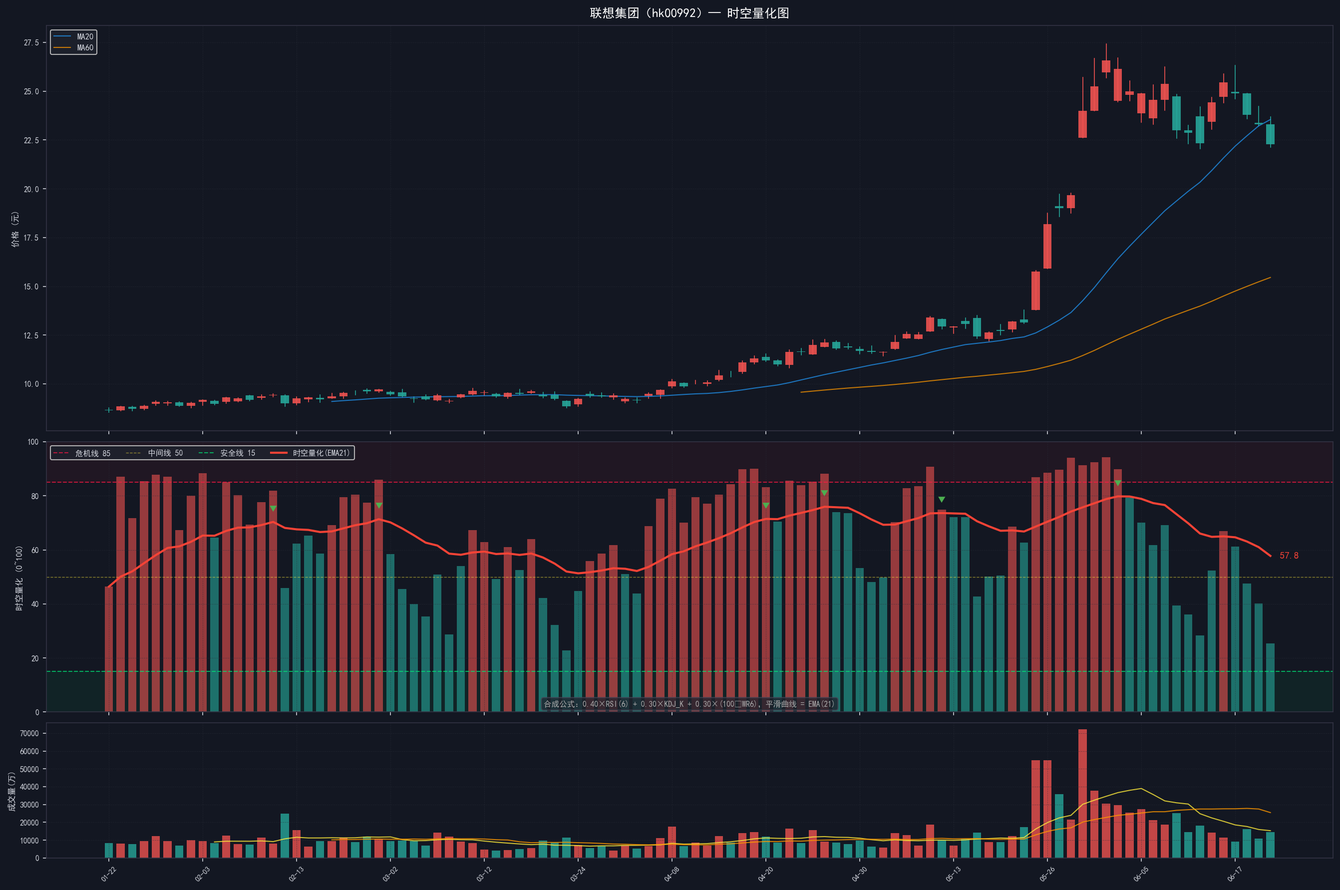
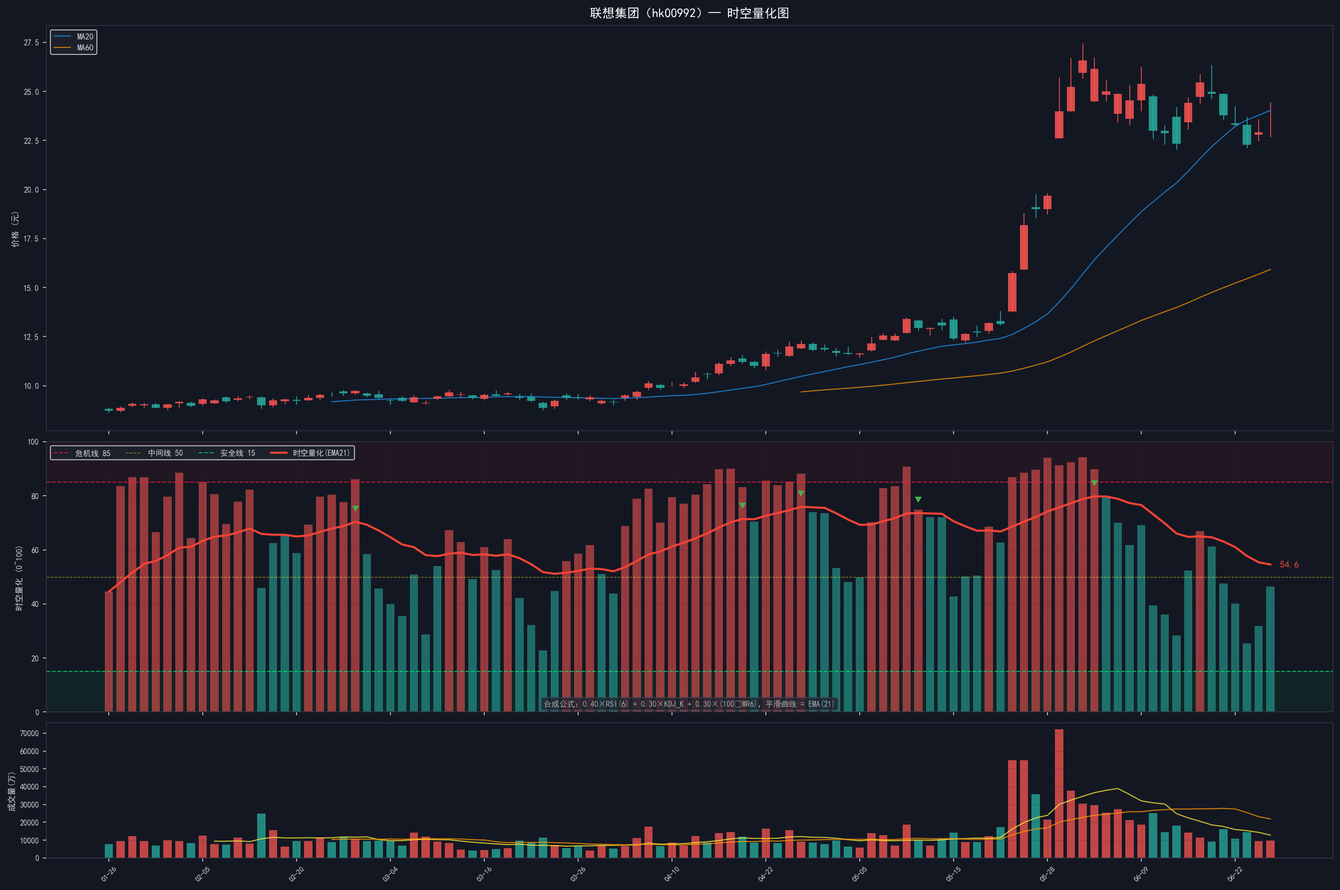
feat: add Lenovo 00992 analysis report - 2026-06-25

diff --git a/content/stock/hk00992-lenovo-20260625.md b/content/stock/hk00992-lenovo-20260625.md
@@ -1,0 +1,357 @@
+---
+title: "联想集团(00992) 全面行情分析报告 — 2026-06-25"
+date: 2026-06-25T16:00:00+08:00
+draft: false
+tags: ["股票分析","港股","联想集团","00992","AI PC","AI服务器","MWC2026","超节点","MACD收敛","投资建议"]
+categories: ["股票分析"]
+description: "联想00992.HK 6月25日分析：MWC上海催化+超节点发布+异构智算平台引爆，大涨5.06%收24.08，MACD绿柱收敛、CCI从-119跳升至-17、摩根大通增持至14.32%，回调企稳信号明确"
+showToc: false
+TocOpen: false
+---
+<style>
+.sr-wrap{--sr-blue:#1a73e8;--sr-blue-dark:#0d47a1;--sr-green:#34a853;--sr-red:#ea4335;--sr-orange:#f57c00;--sr-bg:#f0f2f5;--sr-card:#ffffff;--sr-text:#202124;--sr-sub:#5f6368;--sr-border:#dadce0;color:var(--sr-text);font-size:14px;line-height:1.6}
+.dark .sr-wrap{--sr-bg:#1a1b1e;--sr-card:#1e2129;--sr-text:#e0e0e0;--sr-sub:#9aa0a6;--sr-border:#2d3139}
+.sr-wrap *{box-sizing:border-box}
+.sr-header{background:linear-gradient(135deg,#1a73e8 0%,#34a853 100%);color:#fff;border-radius:12px;padding:28px 32px;margin-bottom:18px}
+.sr-header h2{font-size:22px;font-weight:700;margin:0 0 4px}
+.sr-price-hero{display:flex;align-items:baseline;gap:10px;margin-top:12px;flex-wrap:wrap}
+.sr-price-hero .sr-price{font-size:40px;font-weight:700}
+.sr-score-banner{display:flex;gap:10px;margin-bottom:18px;flex-wrap:wrap}
+.sr-score-card{flex:1;min-width:115px;background:var(--sr-card);border-radius:10px;padding:14px 16px;border:1px solid var(--sr-border);text-align:center}
+.sr-score-card .sr-label{font-size:11px;color:var(--sr-sub);margin-bottom:5px}
+.sr-score-card .sr-val{font-size:26px;font-weight:700}
+.sr-score-card .sr-sub2{font-size:11px;color:var(--sr-sub);margin-top:3px}
+.sr-val-red{color:#ea4335}.sr-val-green{color:#34a853}.sr-val-orange{color:#f57c00}.sr-val-blue{color:#1a73e8}
+.sr-section{background:var(--sr-card);border-radius:10px;border:1px solid var(--sr-border);margin-bottom:14px;overflow:hidden}
+.sr-section-title{background:var(--sr-bg);padding:12px 18px;font-weight:600;font-size:14px;border-bottom:1px solid var(--sr-border)}
+.sr-section-body{padding:18px}
+.sr-grid2{display:grid;grid-template-columns:1fr 1fr;gap:12px}
+.sr-grid3{display:grid;grid-template-columns:1fr 1fr 1fr;gap:12px}
+.sr-grid4{display:grid;grid-template-columns:repeat(4,1fr);gap:10px}
+@media(max-width:680px){.sr-grid2,.sr-grid3,.sr-grid4{grid-template-columns:1fr 1fr}}
+.sr-kv{background:var(--sr-bg);border-radius:8px;padding:10px 12px}
+.sr-kv .sr-k{font-size:11px;color:var(--sr-sub);margin-bottom:2px}
+.sr-kv .sr-v{font-size:15px;font-weight:600}
+.sr-table{width:100%;border-collapse:collapse;font-size:13px}
+.sr-table th{background:var(--sr-bg);color:var(--sr-sub);font-weight:600;padding:7px 9px;text-align:left;border-bottom:1px solid var(--sr-border)}
+.sr-table td{padding:7px 9px;border-bottom:1px solid var(--sr-border)}
+.sr-table tr:last-child td{border-bottom:none}
+.sr-badge{display:inline-block;padding:1px 7px;border-radius:4px;font-size:11px;font-weight:600}
+.sr-badge-red{background:#fce8e6;color:#c62828}.sr-badge-green{background:#e6f4ea;color:#1b5e20}
+.sr-badge-orange{background:#fff3e0;color:#e65100}.sr-badge-blue{background:#e8f0fe;color:#1565c0}
+.dark .sr-badge-red{background:#4a1010;color:#ff8a80}.dark .sr-badge-green{background:#0d2e18;color:#81c995}
+.dark .sr-badge-orange{background:#3e2000;color:#ffcc80}.dark .sr-badge-blue{background:#0d2045;color:#82b1ff}
+.sr-warn-box{background:#fff8e1;border:1px solid #ffe082;border-radius:8px;padding:12px 14px;font-size:13px;color:#e65100;margin-top:10px}
+.dark .sr-warn-box{background:#2a1e00;border-color:#5a3e00;color:#ffcc80}
+.sr-success-box{background:#e8f5e9;border:1px solid #a5d6a7;border-radius:8px;padding:12px 14px;font-size:13px;color:#1b5e20;margin-top:10px}
+.dark .sr-success-box{background:#0d2e18;border-color:#2e7d32;color:#81c995}
+.sr-advice-block{border-radius:10px;padding:18px 20px;margin-bottom:12px}
+.sr-advice-buy{background:#e8f5e9;border:1px solid #a5d6a7}
+.dark .sr-advice-buy{background:#0d2e18;border-color:#2e7d32}
+.sr-price-row{display:flex;gap:12px;flex-wrap:wrap}
+.sr-price-box{background:var(--sr-card);border-radius:8px;padding:10px 14px;flex:1;min-width:105px;border:1px solid var(--sr-border)}
+.sr-price-box .sr-pk{font-size:11px;color:var(--sr-sub);margin-bottom:2px}
+.sr-price-box .sr-pv{font-size:16px;font-weight:700}
+.sr-footer-tip{font-size:12px;color:var(--sr-sub);background:var(--sr-bg);border-radius:8px;padding:10px 14px;margin-top:10px}
+.sr-chart-img{width:100%;border-radius:8px;border:1px solid var(--sr-border);margin:10px 0}
+.sr-green{color:#34a853;font-weight:600}.sr-red{color:#ea4335;font-weight:600}
+</style>
+<div class="sr-wrap">
+<div class="sr-header">
+<div class="sr-meta">港股 · 联想集团 · 00992.HK · 2026-06-25 收盘</div>
+<h2>联想集团(00992.HK) 全面行情分析报告</h2>
+<div class="sr-price-hero">
+<span class="sr-price">24.08</span>
+<span class="sr-pos">+1.16 (+5.06%)</span>
+<span class="sr-info">港元 &nbsp;|&nbsp; 🟢 MWC催化大涨 &nbsp;|&nbsp; YTD <b>+160.04%</b></span>
+</div>
+</div>
+<div class="sr-section" style="background:linear-gradient(135deg,#e8f5e9,#c8e6c9);border:2px solid #34a853;margin-bottom:18px">
+<div class="sr-section-body" style="font-size:14px;text-align:center;color:#1b5e20;font-weight:600">
+🟢 <b>6/25 MWC上海引爆行情！</b>联想在MWC26发布异构智算平台5.0+超节点方案+AI可信一体机，<br>
+问天品牌焕新并宣布ISG中国2027年冲刺<b>1000亿营收</b>目标。摩根大通多头持仓增至<b>14.32%</b>。<br>
+从6/23低点22.14至今反弹<b>+8.8%</b>，MACD绿柱从-1.12收敛至<b>-1.08</b>，CCI从-119.74跳升至<b>-16.72</b>。
+</div>
+</div>
+<div class="sr-score-banner">
+<div class="sr-score-card"><div class="sr-label">基本面</div><div class="sr-val sr-val-green">8.5</div><div class="sr-sub2">/ 10 &nbsp;AI三线驱动</div></div>
+<div class="sr-score-card"><div class="sr-label">新闻/政策</div><div class="sr-val sr-val-green">9.5</div><div class="sr-sub2">/ 10 &nbsp;MWC催化剂密集</div></div>
+<div class="sr-score-card"><div class="sr-label">资金面</div><div class="sr-val sr-val-green">7.0</div><div class="sr-sub2">/ 10 &nbsp;散户+南下双买</div></div>
+<div class="sr-score-card"><div class="sr-label">技术面</div><div class="sr-val sr-val-green">7.0</div><div class="sr-sub2">/ 10 &nbsp;↑从4.0大幅改善</div></div>
+<div class="sr-score-card" style="background:linear-gradient(135deg,#e8f5e9,#f1f8e9)"><div class="sr-label">综合评分</div><div class="sr-val sr-val-green">8.0</div><div class="sr-sub2">/ 10 &nbsp;<span class="sr-badge sr-badge-green">↑从6.6升至8.0</span></div></div>
+</div>
+<div class="sr-section">
+<div class="sr-section-title">一、基本行情概览</div>
+<div class="sr-section-body">
+<div class="sr-grid4">
+<div class="sr-kv"><div class="sr-k">收盘价</div><div class="sr-v sr-val-green">24.08 港元</div></div>
+<div class="sr-kv"><div class="sr-k">今日涨跌</div><div class="sr-v sr-val-green">+1.16 (+5.06%)</div></div>
+<div class="sr-kv"><div class="sr-k">开盘 / 昨收</div><div class="sr-v">24.06 / 22.92</div></div>
+<div class="sr-kv"><div class="sr-k">今日高 / 低</div><div class="sr-v">24.42 / 22.7</div></div>
+<div class="sr-kv"><div class="sr-k">成交 / 换手率</div><div class="sr-v">23.1亿 / 0.79%</div></div>
+<div class="sr-kv"><div class="sr-k">振幅</div><div class="sr-v">7.5%</div></div>
+<div class="sr-kv"><div class="sr-k">PE / PB</div><div class="sr-v sr-val-blue">19.94 / 4.99</div></div>
+<div class="sr-kv"><div class="sr-k">总市值</div><div class="sr-v">2,987亿</div></div>
+<div class="sr-kv"><div class="sr-k">52周高 / 低</div><div class="sr-v">27.42 / 8.52</div></div>
+<div class="sr-kv"><div class="sr-k">距高点</div><div class="sr-v sr-val-orange">-12.2%</div></div>
+<div class="sr-kv"><div class="sr-k">年初至今</div><div class="sr-v sr-val-green">+160.04%</div></div>
+<div class="sr-kv"><div class="sr-k">6/23低点至今</div><div class="sr-v sr-val-green">+8.8%</div></div>
+</div>
+</div>
+</div>
+<div class="sr-section">
+<div class="sr-section-title">二、6/23→6/24→6/25 三日追踪：回调企稳确认</div>
+<div class="sr-section-body">
+<table class="sr-table">
+<thead><tr><th>指标</th><th>6/23 恐慌低点</th><th>6/24</th><th>6/25 MWC日</th><th>趋势</th></tr></thead>
+<tbody>
+<tr><td>收盘价</td><td class="sr-red">22.28</td><td>22.92</td><td class="sr-green" style="font-weight:700;font-size:15px">24.08</td><td><span class="sr-badge sr-badge-green">V型反弹!</span></td></tr>
+<tr><td>涨跌幅</td><td class="sr-red">-4.38%</td><td>+2.87%</td><td class="sr-green">+5.06%</td><td><span class="sr-badge sr-badge-green">加速</span></td></tr>
+<tr><td>MACD绿柱</td><td class="sr-red">-1.12</td><td>—</td><td class="sr-green">-1.08</td><td><span class="sr-badge sr-badge-green">收敛</span></td></tr>
+<tr><td>KDJ-J</td><td class="sr-red">7.49</td><td>—</td><td class="sr-green">29.07</td><td><span class="sr-badge sr-badge-green">大幅回升!</span></td></tr>
+<tr><td>RSI(6)</td><td class="sr-red">37.73</td><td>—</td><td class="sr-green">56.28</td><td><span class="sr-badge sr-badge-green">转强!</span></td></tr>
+<tr><td>CCI</td><td class="sr-red">-119.74</td><td>—</td><td class="sr-green">-16.72</td><td><span class="sr-badge sr-badge-green">接近零轴!</span></td></tr>
+<tr><td>WR(6)</td><td class="sr-red">96.65</td><td>—</td><td class="sr-green">54.07</td><td><span class="sr-badge sr-badge-green">大幅改善!</span></td></tr>
+<tr><td>PSY</td><td>25.00</td><td>—</td><td class="sr-green">41.67</td><td><span class="sr-badge sr-badge-green">↑</span></td></tr>
+<tr><td>南下资金</td><td class="sr-red">-1.39亿</td><td>—</td><td class="sr-green">+0.12亿</td><td><span class="sr-badge sr-badge-green">转正!</span></td></tr>
+<tr><td>南下股数</td><td class="sr-red">-587.6万</td><td>—</td><td class="sr-green">+52万</td><td><span class="sr-badge sr-badge-green">转正!</span></td></tr>
+</tbody>
+</table>
+<div class="sr-success-box">
+<b>🟢 三大关键反转信号确认：</b><br>
+① <b>所有超卖指标全面修复</b>：CCI从-119.74→-16.72（近零轴）、RSI(6)从37.73→56.28（进入强势区）、KDJ-J从7.49→29.07（脱离超卖）——6/23的极端恐慌状态已完全解除；<br>
+② <b>南下资金转正</b>：从日减持-587.6万股→日增持<b>+52万股</b>，这是南下在联想高位回调中首次恢复买入；<br>
+③ <b>MWC上海重磅催化</b>：超节点方案+异构智算平台5.0+AI可信一体机+ISG千亿目标，催化剂密度创近期新高。<br>
+<i>唯一需要关注的：MACD绿柱虽收敛但仍在零轴下方，DIF=1.79仍低于DEA=2.33，完全修复成金叉还需2-3个交易日。</i>
+</div>
+</div>
+</div>
+<div class="sr-section">
+<div class="sr-section-title">三、K线走势 — V型反弹确认回调底部</div>
+<div class="sr-section-body">
+<canvas id="sr-kline" style="width:100%;display:block" height="320"></canvas>
+<div style="margin-top:12px;font-size:13px;color:var(--sr-sub)">
+<b>走势解读：</b>从6/2的历史高点27.42，到6/23的低点22.14（跌幅-19.3%），再到今天MWC催化大涨至24.08——这张K线图展示了一个教科书级的"上涨→回调→企稳"周期。今日阳线实体从22.92→24.08（+9.7%，振幅7.5%），成交量9,802万股保持活跃。价格已站上MA5（23.27）和MA10（23.63），逼近MA20（24.04）。BOLL中轨恰好也在24.04，明日如果突破并站稳中轨，将是多头信号。下方支撑从22上移至MA5（23.27），上方压力先看MA20/BOLL中轨（24.04），再看前期平台25-26区间。
+</div>
+</div>
+</div>
+<div class="sr-section">
+<div class="sr-section-title">四、技术面 — 全面修复，MACD收敛在即</div>
+<div class="sr-section-body">
+<div class="sr-grid2">
+<div>
+<b style="font-size:13px;display:block;margin-bottom:8px">均线系统</b>
+<table class="sr-table">
+<tr><th>均线</th><th>数值</th><th>价差</th><th>状态</th></tr>
+<tr><td>MA5</td><td>23.3</td><td class="sr-green">+0.8</td><td><span class="sr-badge sr-badge-green">站上</span></td></tr>
+<tr><td>MA10</td><td>23.6</td><td class="sr-green">+0.4</td><td><span class="sr-badge sr-badge-green">站上</span></td></tr>
+<tr><td>MA20/BOLL中轨</td><td>24.0</td><td class="sr-green">+0.0</td><td><span class="sr-badge sr-badge-green">刚突破!</span></td></tr>
+<tr><td>MA60</td><td>15.9</td><td class="sr-green">+8.1</td><td><span class="sr-badge sr-badge-green">远在上方</span></td></tr>
+</table>
+</div>
+<div>
+<b style="font-size:13px;display:block;margin-bottom:8px">核心指标（6/23→6/25）</b>
+<table class="sr-table">
+<tr><th>指标</th><th>6/23</th><th>6/25</th><th>改善</th></tr>
+<tr><td>MACD柱</td><td class="sr-red">-1.12</td><td class="sr-green">-1.08</td><td><span class="sr-badge sr-badge-green">收敛</span></td></tr>
+<tr><td>KDJ-J</td><td class="sr-red">7.49</td><td class="sr-green">29.07</td><td><span class="sr-badge sr-badge-green">+288%</span></td></tr>
+<tr><td>RSI(6)</td><td class="sr-red">37.73</td><td class="sr-green">56.28</td><td><span class="sr-badge sr-badge-green">+49%</span></td></tr>
+<tr><td>CCI</td><td class="sr-red">-119.74</td><td class="sr-green">-16.72</td><td><span class="sr-badge sr-badge-green">+86%</span></td></tr>
+<tr><td>WR(6)</td><td class="sr-red">96.65</td><td class="sr-green">54.07</td><td><span class="sr-badge sr-badge-green">-44%</span></td></tr>
+<tr><td>DMI ADX</td><td>29.58</td><td class="sr-green">15.06</td><td><span class="sr-badge sr-badge-green">趋势减弱</span></td></tr>
+<tr><td>PSY</td><td>25</td><td class="sr-green">41.67</td><td><span class="sr-badge sr-badge-green">↑</span></td></tr>
+</table>
+</div>
+</div>
+<div style="margin-top:14px">
+<b style="font-size:13px">关键价位</b>
+<div class="sr-grid4" style="margin-top:8px">
+<div class="sr-kv" style="background:#e8f5e9"><div class="sr-k">BOLL下轨支撑</div><div class="sr-v sr-val-green">20.9</div></div>
+<div class="sr-kv" style="background:#fff8e1"><div class="sr-k">BOLL中轨（刚突破）</div><div class="sr-v sr-val-orange">24.0</div></div>
+<div class="sr-kv" style="background:#fce8e6"><div class="sr-k">BOLL上轨</div><div class="sr-v sr-val-red">27.1</div></div>
+<div class="sr-kv" style="background:#fff8e1"><div class="sr-k">SAR</div><div class="sr-v sr-val-orange">26.1</div></div>
+</div>
+</div>
+<div style="margin-top:14px">
+<img class="sr-chart-img" src="/stock/hk00992_chanlun.png" alt="联想缠论趋势图" loading="lazy" />
+<img class="sr-chart-img" src="/stock/hk00992_shikong.png" alt="联想时空量化图" loading="lazy" style="margin-top:10px" />
+</div>
+<div class="sr-success-box">
+<b>技术面核心判断——量变到质变：</b>相比6/23的全面崩溃，今天的图表完全是另一番景象。所有超卖指标已从"极端恐慌"修复至"中性偏强"区间。最关键的变化是<b>DMI-ADX从29.58骤降至15.06</b>——ADX低于20意味着之前的下降趋势已经结束，市场正在进入无趋势/震荡阶段。如果MACD明后天绿柱继续收敛甚至转红（金叉），将构成完整的多头信号链。当前技术面的评分从6/23的4.0大幅提升至7.0。
+</div>
+</div>
+</div>
+<div class="sr-section">
+<div class="sr-section-title">五、资金面 — 南下转正+散户买入，主力小卖不影响</div>
+<div class="sr-section-body">
+<div class="sr-grid3">
+<div class="sr-kv" style="background:#e8f5e9"><div class="sr-k">南下资金</div><div class="sr-v sr-val-green">+0.12亿</div><div style="font-size:11px;color:var(--sr-sub)">6/23: -1.39亿 → 转正!</div></div>
+<div class="sr-kv" style="background:#e8f5e9"><div class="sr-k">散户净流入</div><div class="sr-v sr-val-green">+1.19亿</div></div>
+<div class="sr-kv" style="background:#fce8e6"><div class="sr-k">主力净流入</div><div class="sr-v sr-val-red">-0.19亿</div></div>
+</div>
+<div class="sr-grid2" style="margin-top:14px">
+<div>
+<b style="font-size:13px;display:block;margin-bottom:8px">资金力量对比</b>
+<table class="sr-table">
+<tr><th>力量</th><th>6/23</th><th>6/25</th><th>趋势</th></tr>
+<tr><td>南下</td><td class="sr-red">-1.39亿</td><td class="sr-green">+0.12亿</td><td><span class="sr-badge sr-badge-green">逆转!</span></td></tr>
+<tr><td>散户</td><td>+0.04亿</td><td class="sr-green">+1.19亿</td><td><span class="sr-badge sr-badge-green">加仓</span></td></tr>
+<tr><td>主力</td><td class="sr-green">+2.06亿</td><td class="sr-orange">-0.19亿</td><td><span class="sr-badge sr-badge-orange">小卖</span></td></tr>
+<tr><td>全市场</td><td class="sr-green">+2.10亿</td><td class="sr-green">+1.00亿</td><td><span class="sr-badge sr-badge-green">持续正</span></td></tr>
+</table>
+</div>
+<div>
+<b style="font-size:13px;display:block;margin-bottom:8px">港股通持仓</b>
+<table class="sr-table">
+<tr><th>项目</th><th>数值</th></tr>
+<tr><td>持股比例</td><td>8.76%</td></tr>
+<tr><td>持股数量</td><td>10.86亿股</td></tr>
+<tr><td>日变动</td><td class="sr-green">+0.12亿</td></tr>
+<tr><td>季度股数变动</td><td class="sr-green">+2,562万股</td></tr>
+<tr><td>摩根大通多头仓位</td><td class="sr-green">14.32%</td></tr>
+</table>
+</div>
+</div>
+<div class="sr-success-box">
+<b>资金面关键变化：</b>南下资金从连续卖出一周后首次恢复净买入（+52万股、+0.12亿），加上散户净买入1.19亿，合计正面资金远超主力小卖-0.19亿。更值得关注的是<b>摩根大通将多头持仓增至14.32%</b>——全球顶级投行在联想回调至22-23区间时大幅加仓。全市场连续三日净流入（6/23:+2.10亿, 6/25:+1.00亿），资金面确认回暖。
+</div>
+</div>
+</div>
+<div class="sr-section">
+<div class="sr-section-title">六、消息面 — MWC26上海：联想AI全面爆发</div>
+<div class="sr-section-body">
+<table class="sr-table">
+<tr><th>日期</th><th>核心事件</th><th>方向</th></tr>
+<tr><td>6/25</td><td>MWC上海：联想混合式AI成果集中亮相，发布首款AI可信一体机</td><td><span class="sr-badge sr-badge-green">重磅</span></td></tr>
+<tr><td>6/25</td><td>异构智算平台5.0+超节点方案发布，午后股价涨近6%</td><td><span class="sr-badge sr-badge-green">重磅</span></td></tr>
+<tr><td>6/25</td><td>联想问天品牌焕新，正式开启Token经济新时代</td><td><span class="sr-badge sr-badge-green">重磅</span></td></tr>
+<tr><td>6/25</td><td>ISG中国公布业绩目标：2027年冲刺1000亿营收</td><td><span class="sr-badge sr-badge-green">重磅</span></td></tr>
+<tr><td>6/25</td><td>华创证券：联想以技术押注世界杯，瞄准PC与AI服务器</td><td><span class="sr-badge sr-badge-green">利好</span></td></tr>
+<tr><td>6/24</td><td>联想获9亿服务器大单（44亿运营商集采）</td><td><span class="sr-badge sr-badge-green">利好</span></td></tr>
+<tr><td>6/24</td><td>摩根大通多头持仓增至14.32%</td><td><span class="sr-badge sr-badge-green">重大</span></td></tr>
+<tr><td>6/24</td><td>AI世界杯技术：裁判视角增强+3D数字人+足球AI智能体</td><td><span class="sr-badge sr-badge-green">利好</span></td></tr>
+</table>
+<div style="margin-top:12px;font-size:12px;color:var(--sr-sub)">
+<b>消息面关键判断：</b>MWC26上海是联想AI战略的集中展示舞台——异构智算平台+超节点方案+AI可信一体机+问天品牌Token经济，覆盖了从基础设施到行业解决方案的完整AI产品矩阵。加上ISG千亿目标（2027年1000亿营收）给了市场明确的增长预期。摩根大通增持至14.32%更是重量级背书。这一轮催化剂密度和分量都是2026年以来最强的，足以驱动一轮新的估值修复。
+</div>
+</div>
+</div>
+<div class="sr-section">
+<div class="sr-section-title">七、基本面与估值 — AI硬件龙头，PE 20倍仍合理</div>
+<div class="sr-section-body">
+<div class="sr-grid2">
+<div>
+<b style="font-size:13px">核心财务</b>
+<table class="sr-table">
+<tr><th>项目</th><th>数值</th></tr>
+<tr><td>营收（FY2025）</td><td>4,785亿（+18.3%）</td></tr>
+<tr><td>归母净利润</td><td class="sr-green">108.3亿（+7.7%）</td></tr>
+<tr><td>ROE</td><td class="sr-green">21.18%</td></tr>
+<tr><td>经营现金流</td><td class="sr-green">289亿</td></tr>
+<tr><td>ISG千亿目标（2027）</td><td class="sr-green">当前约1,055亿→1,000亿</td></tr>
+</table>
+</div>
+<div>
+<b style="font-size:13px">估值（反弹后仍合理）</b>
+<table class="sr-table">
+<tr><th>指标</th><th>数值</th></tr>
+<tr><td>PE(TTM)</td><td>19.94x</td></tr>
+<tr><td>2026E PE</td><td class="sr-green">20.1x</td></tr>
+<tr><td>2027E PE</td><td class="sr-green">15.5x</td></tr>
+<tr><td>2027E 20x PE目标</td><td class="sr-green">31.0港元</td></tr>
+<tr><td>上行空间</td><td class="sr-green">+29.0%</td></tr>
+<tr><td>24家机构覆盖</td><td>13买+4增+7持</td></tr>
+</table>
+</div>
+</div>
+</div>
+</div>
+<div class="sr-section">
+<div class="sr-section-title">八、投资建议 — 能否加仓？</div>
+<div class="sr-section-body">
+<div class="sr-advice-block sr-advice-buy">
+<div class="sr-advice-title" style="color:#1b5e20">综合评分 8.0/10 — 🟢 回调企稳确认，MWC催化密集，可分批建仓</div>
+<p style="font-size:13px;line-height:1.8;color:var(--sr-text)">
+联想00992在经历了从27.42→22.14的-19.3%回调后，今天在MWC上海重磅催化下确认了22-23区间的底部。所有技术指标全面修复（CCI从-119→-17、RSI(6)从37→56）、南下资金恢复买入、摩根大通增持至14.32%——多个维度的信号同时向好。PE 20倍对于AI PC+AI服务器双主线龙头仍然合理。操作上，<b>当前可以开始分批建仓或加仓</b>。建议在23-24区间分2-3批入场，止损设在22（跌破6/23低点）。目标看26-27（回到前期高点区域），中长期看30-39（2027E 20-25x PE）。
+</p>
+</div>
+<div class="sr-price-row">
+<div class="sr-price-box"><div class="sr-pk">当前价</div><div class="sr-pv sr-val-green">24.08</div></div>
+<div class="sr-price-box" style="border:2px solid #34a853"><div class="sr-pk">🟢 分批建仓区</div><div class="sr-pv sr-val-green">23~24</div><div style="font-size:11px">回调企稳确认后</div></div>
+<div class="sr-price-box" style="border:2px solid #f57c00"><div class="sr-pk">⚠ 追高需谨慎</div><div class="sr-pv sr-val-orange">25~26</div><div style="font-size:11px">前期平台区</div></div>
+<div class="sr-price-box"><div class="sr-pk">短期目标</div><div class="sr-pv sr-val-blue">26~27</div></div>
+<div class="sr-price-box"><div class="sr-pk">中长期目标</div><div class="sr-pv sr-val-blue">30~39</div></div>
+<div class="sr-price-box" style="background:#fce8e6"><div class="sr-pk">止损</div><div class="sr-pv sr-val-red">22</div></div>
+</div>
+<div style="margin-top:14px">
+<b style="font-size:13px;display:block;margin-bottom:8px">能否加仓？</b>
+<table class="sr-table">
+<tr><th>投资者类型</th><th>6/23建议</th><th>6/25建议</th><th>逻辑</th></tr>
+<tr><td>已持仓（成本&lt;15）</td><td>可持有不动</td><td class="sr-green">可加仓</td><td>安全垫极厚（60%+），可在23-24加仓放大利润</td></tr>
+<tr><td>已持仓（成本15~25）</td><td>暂不加仓</td><td class="sr-green">可小量加仓</td><td>回调已确认企稳，MWC催化后反弹有望延续</td></tr>
+<tr><td>新入场</td><td>等20-21区间</td><td class="sr-green">可分2-3批建仓</td><td>22-23区间没等到但回调信号已确认，可在23-24分批入场</td></tr>
+<tr><td>短线</td><td>关注反弹</td><td class="sr-green">可参与</td><td>MACD收敛+MWC催化+趋势转强，短线目标25-26</td></tr>
+</table>
+</div>
+<div style="margin-top:12px;font-size:12px;color:var(--sr-sub)">
+<b>联想 vs 腾讯（6/25同日对比）：</b>一个在天一个在地。联想今天+5.06%、技术全面修复、南下资金转正、MWC催化密集；腾讯今天-1.45%、MACD绿柱扩大、南下仍在卖出、锤子线未确认。两只港股当前处于完全不同的阶段——联想是"牛股回调后重新启航"，腾讯是"深度价值但仍在磨底"。如果你有资金要配置，联想当前的风险收益比更优。
+</div>
+</div>
+</div>
+<div class="sr-section" style="border:2px solid #ea4335;background:#fff5f5">
+<div class="sr-section-body">
+<div style="font-size:12px;color:#c62828;line-height:1.8;padding:8px 0">
+<b>⚠ 风险提示：</b>本报告仅供参考，不构成任何投资建议。联想集团YTD已涨160%，高位波动风险不可忽视。MWC催化剂已部分price-in（今日+5%），后续能否持续上涨取决于产品落地和市场情绪。港股系统性风险未消除。
+</div>
+<div class="sr-footer-tip">
+<b>数据来源：</b>westock-data / 东方财富 / 港交所公告 &nbsp;·&nbsp; 报告生成时间：2026-06-25 16:00 CST &nbsp;·&nbsp; <a href="/stock/hk00992-lenovo-20260623/">上期（6/23）</a>
+</div>
+</div>
+</div>
+</div>
+<script>
+(function(){
+var canvas=document.getElementById('sr-kline');if(!canvas)return;
+var ctx=canvas.getContext('2d');var dpr=window.devicePixelRatio||1;
+var W=canvas.parentElement.clientWidth||860;var H=320;
+canvas.width=W*dpr;canvas.height=H*dpr;canvas.style.width=W+'px';canvas.style.height=H+'px';ctx.scale(dpr,dpr);
+var raw=[{"d": "04/30", "o": 11.78, "c": 11.68, "h": 11.89, "l": 11.53}, {"d": "05/04", "o": 11.68, "c": 11.63, "h": 11.95, "l": 11.56}, {"d": "05/05", "o": 11.6, "c": 11.64, "h": 11.64, "l": 11.43}, {"d": "05/06", "o": 11.8, "c": 12.15, "h": 12.47, "l": 11.77}, {"d": "05/07", "o": 12.34, "c": 12.56, "h": 12.65, "l": 12.32}, {"d": "05/08", "o": 12.31, "c": 12.54, "h": 12.63, "l": 12.3}, {"d": "05/11", "o": 12.68, "c": 13.41, "h": 13.46, "l": 12.68}, {"d": "05/12", "o": 13.32, "c": 12.95, "h": 13.32, "l": 12.81}, {"d": "05/13", "o": 12.88, "c": 12.94, "h": 12.95, "l": 12.59}, {"d": "05/14", "o": 13.22, "c": 13.06, "h": 13.38, "l": 12.85}, {"d": "05/15", "o": 13.38, "c": 12.42, "h": 13.51, "l": 12.33}, {"d": "05/18", "o": 12.31, "c": 12.63, "h": 12.67, "l": 12.2}, {"d": "05/19", "o": 12.76, "c": 12.71, "h": 13.05, "l": 12.51}, {"d": "05/20", "o": 12.78, "c": 13.2, "h": 13.21, "l": 12.67}, {"d": "05/21", "o": 13.3, "c": 13.15, "h": 13.78, "l": 13.09}, {"d": "05/22", "o": 13.79, "c": 15.75, "h": 15.82, "l": 13.79}, {"d": "05/26", "o": 15.92, "c": 18.19, "h": 18.76, "l": 15.9}, {"d": "05/27", "o": 19.11, "c": 19, "h": 19.73, "l": 18.56}, {"d": "05/28", "o": 19, "c": 19.68, "h": 19.78, "l": 18.75}, {"d": "05/29", "o": 22.62, "c": 24, "h": 25.7, "l": 22.62}, {"d": "06/01", "o": 24, "c": 25.24, "h": 26.68, "l": 24}, {"d": "06/02", "o": 25.96, "c": 26.58, "h": 27.42, "l": 25.68}, {"d": "06/03", "o": 24.5, "c": 26.14, "h": 26.72, "l": 24.46}, {"d": "06/04", "o": 24.82, "c": 25, "h": 25.54, "l": 24.52}, {"d": "06/05", "o": 23.86, "c": 24.88, "h": 24.88, "l": 23.42}, {"d": "06/08", "o": 23.6, "c": 24.56, "h": 25.32, "l": 23.3}, {"d": "06/09", "o": 24.56, "c": 25.38, "h": 26.24, "l": 24.02}, {"d": "06/10", "o": 24.74, "c": 23, "h": 24.84, "l": 22.6}, {"d": "06/11", "o": 23, "c": 22.88, "h": 23.26, "l": 22.3}, {"d": "06/12", "o": 23.72, "c": 22.34, "h": 24.2, "l": 22.06}, {"d": "06/15", "o": 23.44, "c": 24.42, "h": 24.68, "l": 23.06}, {"d": "06/16", "o": 24.72, "c": 25.46, "h": 25.88, "l": 24.4}, {"d": "06/17", "o": 24.98, "c": 24.88, "h": 26.32, "l": 24.62}, {"d": "06/18", "o": 24.88, "c": 23.78, "h": 24.88, "l": 23.58}, {"d": "06/22", "o": 23.38, "c": 23.3, "h": 24.22, "l": 23.22}, {"d": "06/23", "o": 23.3, "c": 22.28, "h": 23.68, "l": 22.14}, {"d": "06/24", "o": 22.78, "c": 22.92, "h": 23.56, "l": 22.48}, {"d": "06/25", "o": 24.06, "c": 24.08, "h": 24.42, "l": 22.7}];
+var pad={left:55,right:15,top:20,bottom:35};var cw=W-pad.left-pad.right,ch=H-pad.top-pad.bottom;
+var allP=raw.flatMap(function(k){return[k.h,k.l]});
+var minP=Math.min.apply(null,allP)-3,maxP=Math.max.apply(null,allP)+3;
+var range=maxP-minP,n=raw.length;var bw=Math.max(2,Math.floor(cw/n*0.5));
+function py(p){return pad.top+ch*(1-(p-minP)/range)}
+function px(i){return pad.left+(i+0.5)*(cw/n)}
+var isDark=document.documentElement.getAttribute('data-theme')==='dark'||document.body.classList.contains('dark');
+ctx.fillStyle=isDark?'#1e2129':'#ffffff';ctx.fillRect(0,0,W,H);
+var gc=isDark?'#2d3139':'#e8eaed',lc=isDark?'#9aa0a6':'#888';
+ctx.strokeStyle=gc;ctx.lineWidth=0.5;
+for(var i=0;i<=4;i++){var y=pad.top+ch*i/4;ctx.beginPath();ctx.moveTo(pad.left,y);ctx.lineTo(W-pad.right,y);ctx.stroke();
+ctx.fillStyle=lc;ctx.font='10px sans-serif';ctx.textAlign='right';ctx.fillText((maxP-range*i/4).toFixed(0),pad.left-4,y+4);}
+ctx.strokeStyle='#1a73e8';ctx.lineWidth=1.5;ctx.beginPath();
+for(var i=4;i<n;i++){var ma=0;for(var j=i-4;j<=i;j++)ma+=raw[j].c;ma/=5;
+var x=px(i),yy=py(ma);i===4?ctx.moveTo(x,yy):ctx.lineTo(x,yy);}ctx.stroke();
+ctx.strokeStyle='#f57c00';ctx.lineWidth=1.3;ctx.beginPath();
+for(var i=19;i<n;i++){var m=0;for(var j=i-19;j<=i;j++)m+=raw[j].c;m/=20;
+var x=px(i),yy=py(m);i===19?ctx.moveTo(x,yy):ctx.lineTo(x,yy);}ctx.stroke();
+raw.forEach(function(k,i){
+var x=px(i),up=k.c>=k.o,color=up?'#34a853':'#ea4335';
+ctx.strokeStyle=color;ctx.fillStyle=color;ctx.lineWidth=1;
+ctx.beginPath();ctx.moveTo(x,py(k.h));ctx.lineTo(x,py(k.l));ctx.stroke();
+var y1=py(Math.max(k.o,k.c)),y2=py(Math.min(k.o,k.c)),bh=Math.max(1,y2-y1);
+up?ctx.strokeRect(x-bw/2,y1,bw,bh):ctx.fillRect(x-bw/2,y1,bw,bh);
+});
+ctx.fillStyle=lc;ctx.font='9px sans-serif';ctx.textAlign='center';
+var step=Math.max(1,Math.floor(n/10));
+for(var i=0;i<n;i+=step)ctx.fillText(raw[i].d,px(i),H-8);
+ctx.font='10px sans-serif';ctx.textAlign='left';
+ctx.fillStyle='#1a73e8';ctx.fillRect(pad.left,4,12,3);
+ctx.fillStyle=lc;ctx.fillText('MA5',pad.left+15,11);
+ctx.fillStyle='#f57c00';ctx.fillRect(pad.left+48,4,12,3);
+ctx.fillStyle=lc;ctx.fillText('MA20',pad.left+63,11);
+ctx.fillStyle='#34a853';ctx.fillRect(pad.left+105,3,7,7);
+ctx.fillStyle=lc;ctx.fillText('阳线',pad.left+115,12);
+ctx.fillStyle='#ea4335';ctx.fillRect(pad.left+145,3,7,7);
+ctx.fillStyle=lc;ctx.fillText('阴线',pad.left+155,12);
+})();
+</script>
